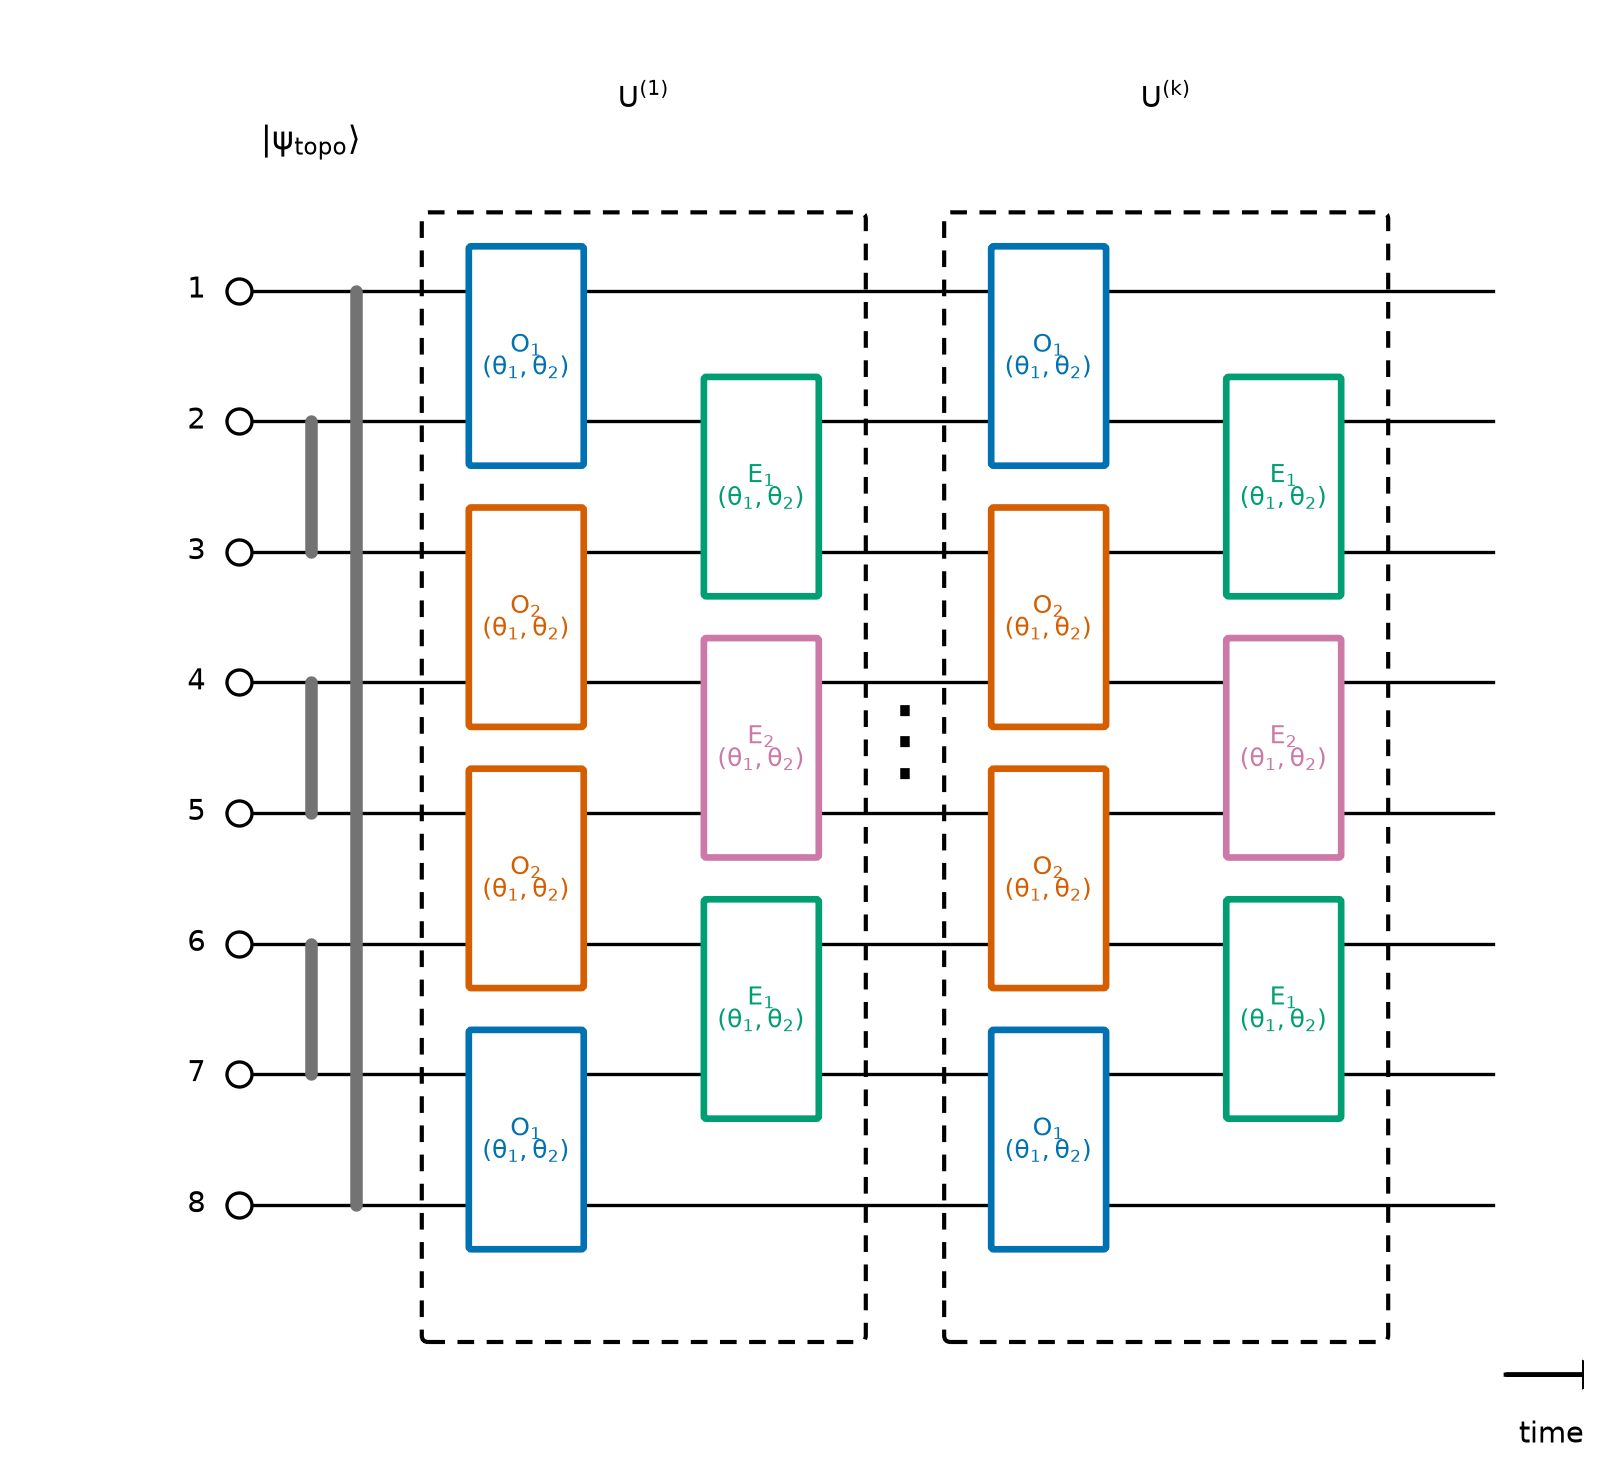
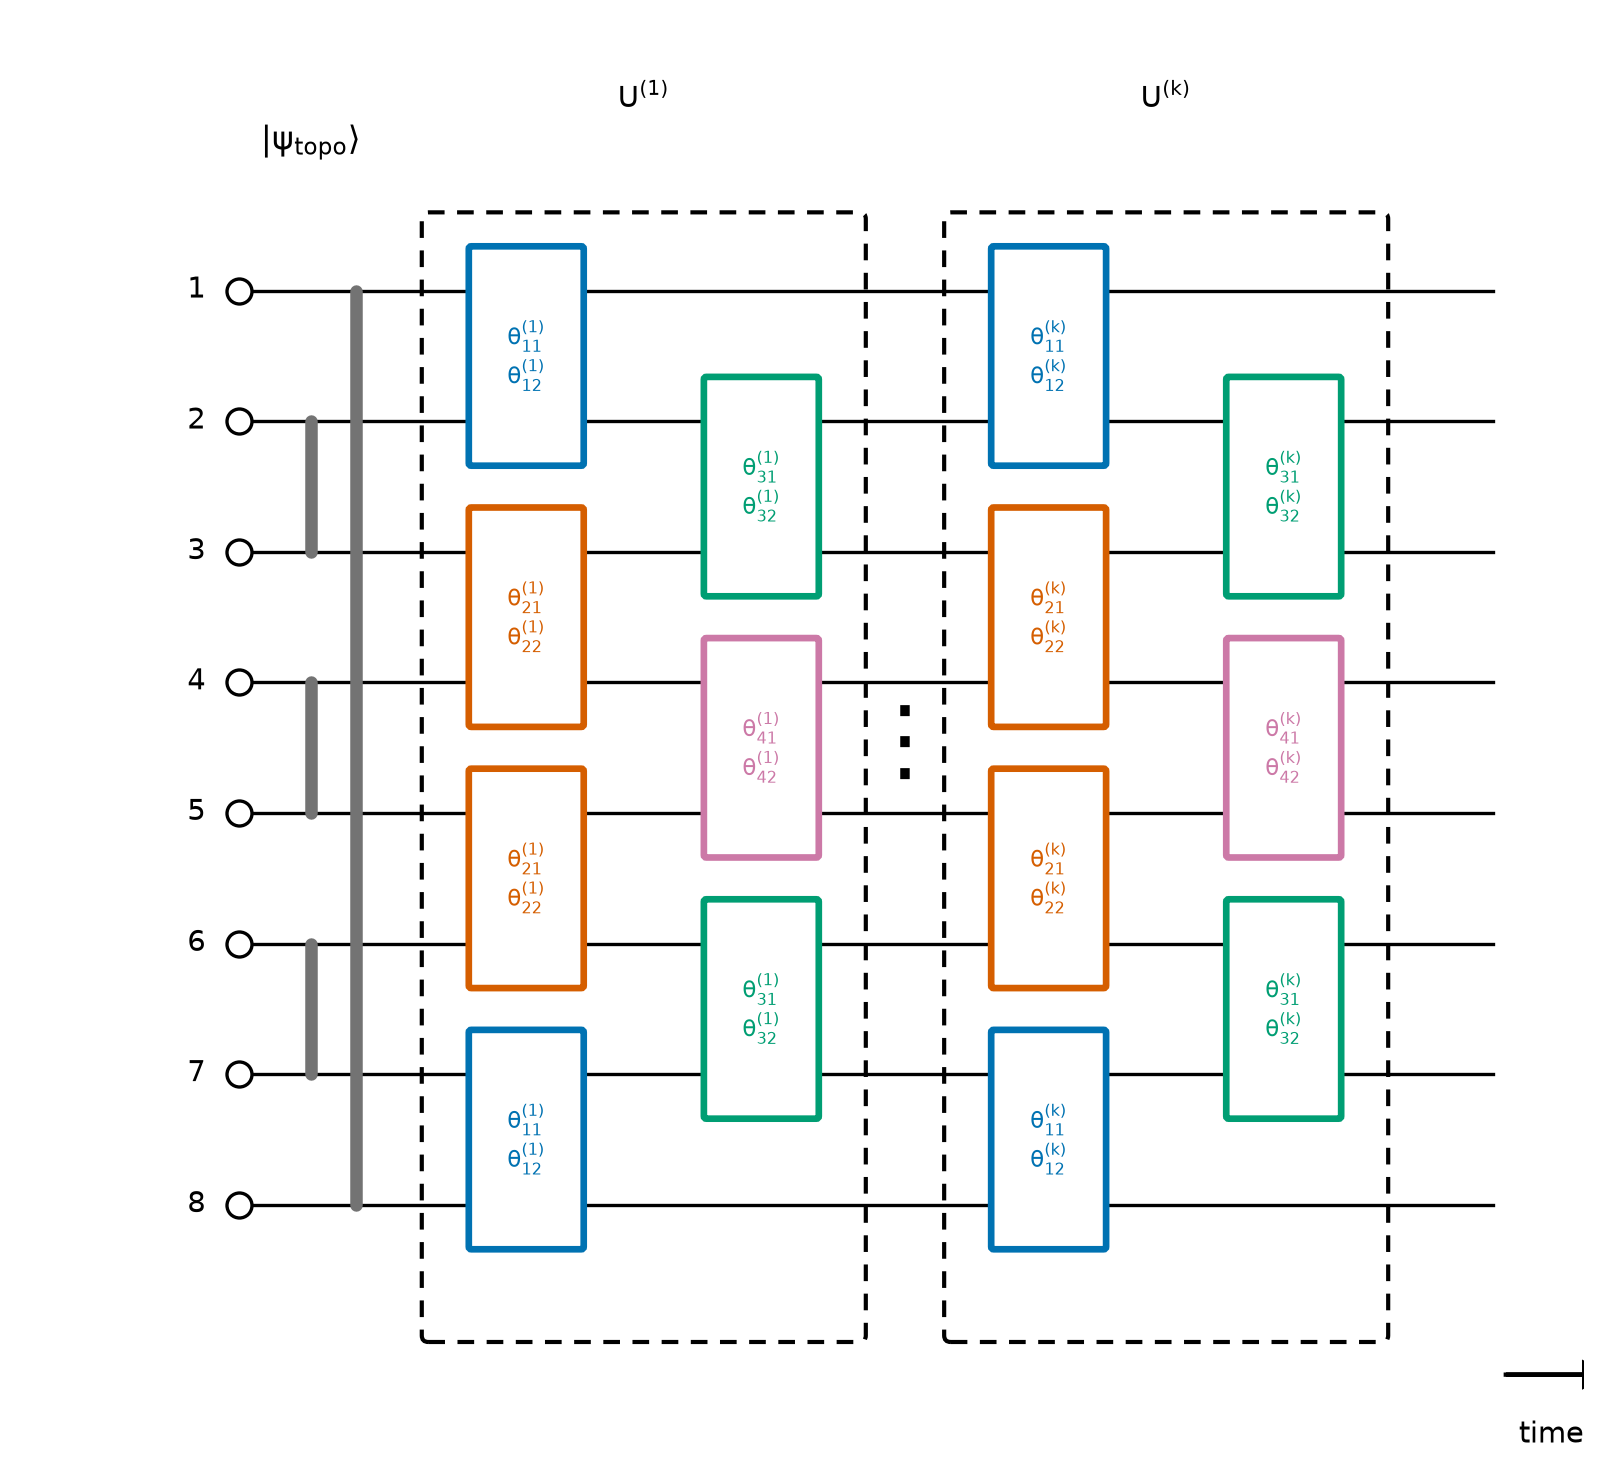
门框改索引theta组号+层标, 去E/O头衔

diff --git a/scripts/plot_D06.py b/scripts/plot_D06.py
@@ -11,9 +11,11 @@ Faithful to doc/theory/psi0.md + doc/theory/ansatz.md for L = 8 only:
 - D06a trivial: odd-bond singlet pairs; F = even (U_o U_e).
 - D06b topo: |s>_{1,8} link + even-bond singlet pairs; F = odd (U_e U_o).
 - D06c AFM: GHZ adjacent-link chain; F = even (U_o U_e).
-Orbit-pair labels (same label + color = shared parameters):
-odd O1 on bonds (1,2)&(7,8), O2 on (3,4)&(5,6);
-even E1 on bonds (2,3)&(6,7), E2 on (4,5) self-mirror.
+Orbit colors/groups (same color = shared parameters):
+group 1 = odd-outer pair bonds (1,2)&(7,8), group 2 = odd-inner pair
+(3,4)&(5,6), group 3 = even-outer pair (2,3)&(6,7), group 4 = even-central
+bond (4,5) self-mirror. Box text only carries indexed thetas, no orbit
+letters: theta^{(l)}_{g1} / theta^{(l)}_{g2} with g = group, l = layer.
 No gate types beyond ansatz.md are drawn.
 
 Project Python: .CondaPkg/.pixi/envs/default/bin/python.
@@ -60,16 +62,16 @@ def link_bar(ax, a, b, x):
     ax.plot([x, x], [yb, ya], color=GRAY, linewidth=3.0, solid_capstyle="round")
 
 
-def gate_box(ax, a, b, x, color, orbit):
+def gate_box(ax, a, b, x, color, group, layer):
     """One orbit bond gate box spanning two wires."""
     ya, yb = y_of(a), y_of(b)
     box = FancyBboxPatch((x - 0.42, yb - 0.32), 0.84, ya - yb + 0.64,
                          boxstyle="round,pad=0.02", facecolor="white",
                          edgecolor=color, linewidth=1.6)
     ax.add_patch(box)
-    ax.text(x, (ya + yb) / 2, f"${orbit}$\n"
-            r"$(\theta_1,\theta_2)$", ha="center", va="center",
-            fontsize=6, color=color, linespacing=0.9)
+    ax.text(x, (ya + yb) / 2, f"$\\theta^{{({layer})}}_{{{group}1}}$" + "\n"
+            f"$\\theta^{{({layer})}}_{{{group}2}}$", ha="center",
+            va="center", fontsize=5.5, color=color, linespacing=1.7)
 
 
 def layer_frame(ax, x0, x1):
@@ -80,9 +82,9 @@ def layer_frame(ax, x0, x1):
     ax.add_patch(frame)
 
 
-def draw_sublayer(ax, bonds, x, colors):
-    for (a, b), orb in bonds:
-        gate_box(ax, a, b, x, colors[orb], orb)
+def draw_sublayer(ax, bonds, x, layer):
+    for (a, b), g in bonds:
+        gate_box(ax, a, b, x, GROUP_COLORS[g], g, layer)
 
 
 def finish(ax):
@@ -92,11 +94,12 @@ def finish(ax):
     ax.axis("off")
 
 
-# Orbit-pair labels: same label + color = one shared (theta1, theta2).
-ODD_BONDS = [((1, 2), "O_1"), ((7, 8), "O_1"),
-             ((3, 4), "O_2"), ((5, 6), "O_2")]
-EVEN_BONDS = [((2, 3), "E_1"), ((6, 7), "E_1"),
-              ((4, 5), "E_2")]
+# Orbit groups: same group + color = one shared (theta1, theta2).
+ODD_BONDS = [((1, 2), 1), ((7, 8), 1),
+             ((3, 4), 2), ((5, 6), 2)]
+EVEN_BONDS = [((2, 3), 3), ((6, 7), 3),
+              ((4, 5), 4)]
+GROUP_COLORS: dict = {}
 
 # Column x positions: init | U^(1): F, S | dots | U^(k): F, S.
 X_INIT, X_F1, X_S1, X_DOTS, X_FK, X_SK = 0.55, 2.2, 4.0, 5.1, 6.2, 8.0
@@ -106,8 +109,9 @@ def main():
     from figure_style import apply_figure_style, finalize_figure
 
     palette = apply_figure_style()
-    cO = {"O_1": palette[0], "O_2": palette[1]}
-    cE = {"E_1": palette[2], "E_2": palette[3]}
+    global GROUP_COLORS
+    GROUP_COLORS = {1: palette[0], 2: palette[1],
+                    3: palette[2], 4: palette[3]}
 
     os.makedirs(FIGDIR, exist_ok=True)
 
@@ -118,15 +122,15 @@ def main():
         link_bar(ax, a, b, X_INIT)
     ax.text(X_INIT, 8.0, r"$|\psi_{\rm triv}\rangle$", ha="center",
             va="bottom", fontsize=8)
-    draw_sublayer(ax, EVEN_BONDS, X_F1, cE)
-    draw_sublayer(ax, ODD_BONDS, X_S1, cO)
+    draw_sublayer(ax, EVEN_BONDS, X_F1, "1")
+    draw_sublayer(ax, ODD_BONDS, X_S1, "1")
     layer_frame(ax, X_F1 - 0.75, X_S1 + 0.75)
     ax.text((X_F1 + X_S1) / 2, 8.35, r"$U^{(1)}$", ha="center",
             va="bottom", fontsize=7)
     ax.text(X_DOTS, 3.5, r"$\vdots$", ha="center", va="center",
             fontsize=22)
-    draw_sublayer(ax, EVEN_BONDS, X_FK, cE)
-    draw_sublayer(ax, ODD_BONDS, X_SK, cO)
+    draw_sublayer(ax, EVEN_BONDS, X_FK, "k")
+    draw_sublayer(ax, ODD_BONDS, X_SK, "k")
     layer_frame(ax, X_FK - 0.75, X_SK + 0.75)
     ax.text((X_FK + X_SK) / 2, 8.35, r"$U^{(k)}$", ha="center",
             va="bottom", fontsize=7)
@@ -145,15 +149,15 @@ def main():
     link_bar(ax, 1, 8, X_INIT + 0.35)
     ax.text(X_INIT, 8.0, r"$|\psi_{\rm topo}\rangle$", ha="center",
             va="bottom", fontsize=8)
-    draw_sublayer(ax, ODD_BONDS, X_F1, cO)
-    draw_sublayer(ax, EVEN_BONDS, X_S1, cE)
+    draw_sublayer(ax, ODD_BONDS, X_F1, "1")
+    draw_sublayer(ax, EVEN_BONDS, X_S1, "1")
     layer_frame(ax, X_F1 - 0.75, X_S1 + 0.75)
     ax.text((X_F1 + X_S1) / 2, 8.35, r"$U^{(1)}$", ha="center",
             va="bottom", fontsize=7)
     ax.text(X_DOTS, 3.5, r"$\vdots$", ha="center", va="center",
             fontsize=22)
-    draw_sublayer(ax, ODD_BONDS, X_FK, cO)
-    draw_sublayer(ax, EVEN_BONDS, X_SK, cE)
+    draw_sublayer(ax, ODD_BONDS, X_FK, "k")
+    draw_sublayer(ax, EVEN_BONDS, X_SK, "k")
     layer_frame(ax, X_FK - 0.75, X_SK + 0.75)
     ax.text((X_FK + X_SK) / 2, 8.35, r"$U^{(k)}$", ha="center",
             va="bottom", fontsize=7)
@@ -180,15 +184,15 @@ def main():
             link_bar(ax, a, b, x)
     ax.text(X_INIT, 8.0, r"$|\psi_{\rm AFM}\rangle$", ha="center",
             va="bottom", fontsize=8)
-    draw_sublayer(ax, EVEN_BONDS, X_F1, cE)
-    draw_sublayer(ax, ODD_BONDS, X_S1, cO)
+    draw_sublayer(ax, EVEN_BONDS, X_F1, "1")
+    draw_sublayer(ax, ODD_BONDS, X_S1, "1")
     layer_frame(ax, X_F1 - 0.75, X_S1 + 0.75)
     ax.text((X_F1 + X_S1) / 2, 8.35, r"$U^{(1)}$", ha="center",
             va="bottom", fontsize=7)
     ax.text(X_DOTS, 3.5, r"$\vdots$", ha="center", va="center",
             fontsize=22)
-    draw_sublayer(ax, EVEN_BONDS, X_FK, cE)
-    draw_sublayer(ax, ODD_BONDS, X_SK, cO)
+    draw_sublayer(ax, EVEN_BONDS, X_FK, "k")
+    draw_sublayer(ax, ODD_BONDS, X_SK, "k")
     layer_frame(ax, X_FK - 0.75, X_SK + 0.75)
     ax.text((X_FK + X_SK) / 2, 8.35, r"$U^{(k)}$", ha="center",
             va="bottom", fontsize=7)
